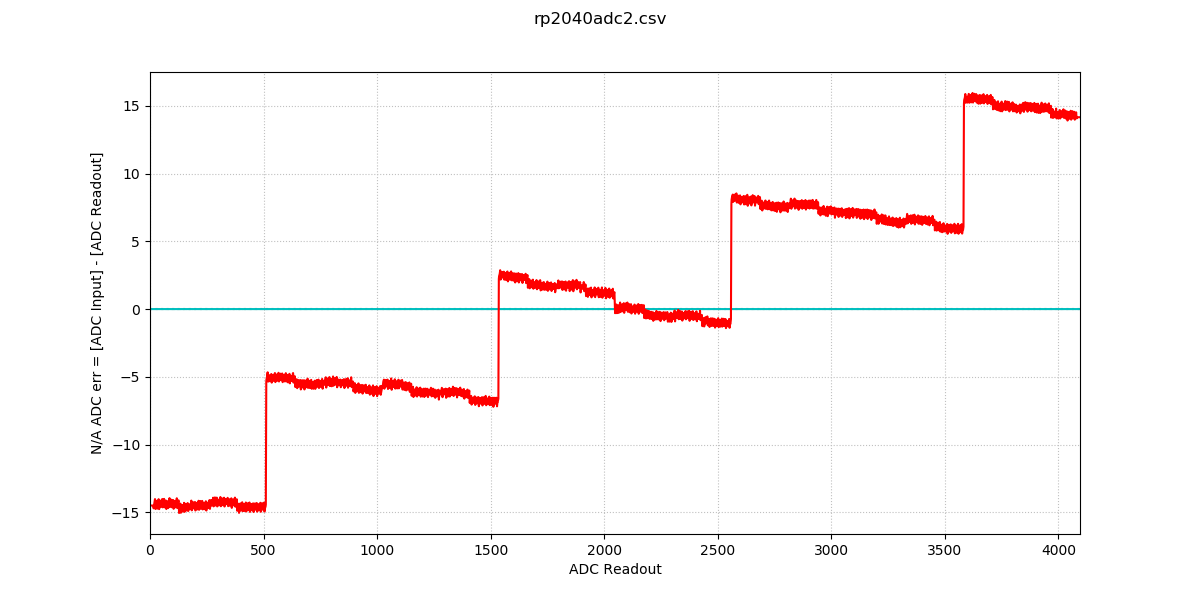
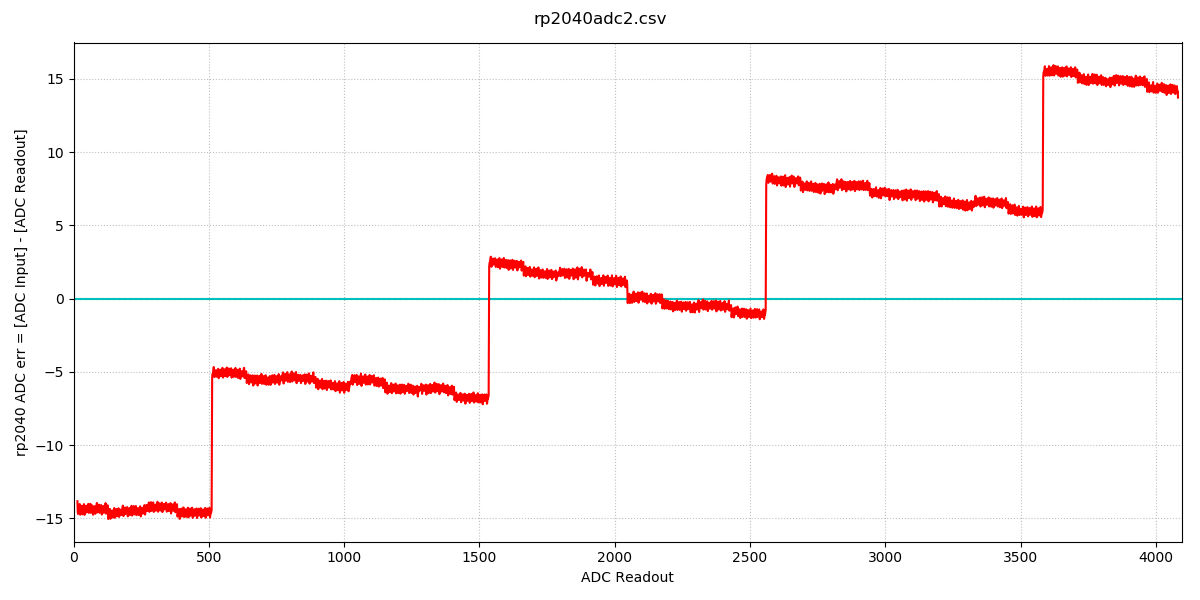
graph and GP-code revised

diff --git a/rp2350adc_corr.py b/rp2350adc_corr.py
@@ -10,49 +10,45 @@ def rp2350adc_correction(d):
     '''
     if d >= 4079:
         y = 4095
-    elif d >= 4070:
+    elif d >= 3905:
         y = d + 16
-    elif d >= 3840:
+    elif d >= 3839:
         y = d + 15
-    elif d >= 3632:
+    elif d >= 3489:
         y = d + 14
-    elif d >= 3328:
+    elif d >= 3327:
         y = d + 13
-    elif d >= 3244:
+    elif d >= 3105:
         y = d + 12
-    elif d >= 3200:
+    elif d >= 2816:
         y = d + 11
-    elif d >= 3152:
-        y = d + 12
-    elif d >= 2848:
-        y = d + 11
-    elif d >= 2784:
+    elif d >= 2783:
         y = d + 10
-    elif d >= 2560:
+    elif d >= 2559:
         y = d + 9
-    elif d >= 2306:
+    elif d >= 2304:
         y = d + 10
     elif d >= 2144:
         y = d + 9
-    elif d >= 2048:
+    elif d >= 2047:
         y = d + 8
-    elif d >= 1839:
+    elif d >= 1824:
         y = d + 9
-    elif d >= 1776:
+    elif d >= 1792:
         y = d + 8
-    elif d >= 1536:
+    elif d >= 1535:
         y = d + 7
     elif d >= 1280:
         y = d + 8
-    elif d >= 1092:
+    elif d >= 1089:
         y = d + 7
-    elif d >= 864:
+    elif d >= 833:
         y = d + 6
-    elif d >= 768:
+    elif d >= 767:
         y = d + 5
-    elif d >= 593:
+    elif d >= 576:
         y = d + 4
-    elif d >= 335:
+    elif d >= 319:
         y = d + 3
     elif d >= 255:
         y = d + 2

diff --git a/rp2040adc_corr.py b/rp2040adc_corr.py
@@ -8,24 +8,22 @@ def rp2040adc_correction(d):
       d     : 12 bit ADC readout (0~4095)
       return: corrected ADC value
     '''
-    if d >= 4082:
+    if d >= 4081:
         y = 4095
-    elif d >= 4022:
-        y = d + 13
     elif d >= 3711:
         y = d + 14
     elif d >= 3584:
         y = d + 15
     elif d == 3583:
         y = 3583 + 10
-    elif d >= 3454:
+    elif d >= 3455:
         y = d + 5
     elif d >= 2943:
         y = d + 6
     elif d >= 2560:
         y = d + 7
     elif d == 2559:
-        y = 2559 + 2
+        y = 2559 + 3
     elif d >= 2431:
         y = d - 2
     elif d >= 2048:

diff --git a/README.md b/README.md
@@ -40,24 +40,22 @@ def rp2040adc_correction(d):
       d     : 12 bit ADC readout (0~4095)
       return: corrected ADC value
     '''
-    if d >= 4082:
+    if d >= 4081:
         y = 4095
-    elif d >= 4022:
-        y = d + 13
     elif d >= 3711:
         y = d + 14
     elif d >= 3584:
         y = d + 15
     elif d == 3583:
         y = 3583 + 10
-    elif d >= 3454:
+    elif d >= 3455:
         y = d + 5
     elif d >= 2943:
         y = d + 6
     elif d >= 2560:
         y = d + 7
     elif d == 2559:
-        y = 2559 + 2
+        y = 2559 + 3
     elif d >= 2431:
         y = d - 2
     elif d >= 2048:
@@ -97,49 +95,45 @@ def rp2350adc_correction(d):
     '''
     if d >= 4079:
         y = 4095
-    elif d >= 4070:
+    elif d >= 3905:
         y = d + 16
-    elif d >= 3840:
+    elif d >= 3839:
         y = d + 15
-    elif d >= 3632:
+    elif d >= 3489:
         y = d + 14
-    elif d >= 3328:
+    elif d >= 3327:
         y = d + 13
-    elif d >= 3244:
+    elif d >= 3105:
         y = d + 12
-    elif d >= 3200:
+    elif d >= 2816:
         y = d + 11
-    elif d >= 3152:
-        y = d + 12
-    elif d >= 2848:
-        y = d + 11
-    elif d >= 2784:
+    elif d >= 2783:
         y = d + 10
-    elif d >= 2560:
+    elif d >= 2559:
         y = d + 9
-    elif d >= 2306:
+    elif d >= 2304:
         y = d + 10
     elif d >= 2144:
         y = d + 9
-    elif d >= 2048:
+    elif d >= 2047:
         y = d + 8
-    elif d >= 1839:
+    elif d >= 1824:
         y = d + 9
-    elif d >= 1776:
+    elif d >= 1792:
         y = d + 8
-    elif d >= 1536:
+    elif d >= 1535:
         y = d + 7
     elif d >= 1280:
         y = d + 8
-    elif d >= 1092:
+    elif d >= 1089:
         y = d + 7
-    elif d >= 864:
+    elif d >= 833:
         y = d + 6
-    elif d >= 768:
+    elif d >= 767:
         y = d + 5
-    elif d >= 593:
+    elif d >= 576:
         y = d + 4
-    elif d >= 335:
+    elif d >= 319:
         y = d + 3
     elif d >= 255:
         y = d + 2
@@ -154,11 +148,11 @@ def rp2350adc_correction(d):
 ## Correction result by the general-purpose code
 Y-axis is ADC error and X-axis is ADC input (***not ADC readout***).
 ### RP2040 ADC correction result by the general-purpose code
-[<img src="./images/Figure_1.png" width="300">](./images/Figure_1.png)
-[<img src="./images/Figure_2.png" width="300">](./images/Figure_2.png)
-[<img src="./images/Figure_3.png" width="300">](./images/Figure_3.png)
-[<img src="./images/Figure_4.png" width="300">](./images/Figure_4.png)
-[<img src="./images/Figure_5.png" width="300">](./images/Figure_5.png)  
+[<img src="./images/rp2040_gc1.png" width="300">](./images/rp2040_gc1.png)
+[<img src="./images/rp2040_gc2.png" width="300">](./images/rp2040_gc2.png)
+[<img src="./images/rp2040_gc3.png" width="300">](./images/rp2040_gc3.png)
+[<img src="./images/rp2040_gc4.png" width="300">](./images/rp2040_gc4.png)
+[<img src="./images/rp2040_gc5.png" width="300">](./images/rp2040_gc5.png)  
 The red line shows the error with correction, and the cyan line shows the error without correction.
 
 ### RP2350 ADC correction result by the general-purpose code
@@ -184,11 +178,11 @@ Where `rp2040adc_err[]` is the array created by [*calc_err.py*](./actual_adc_dat
 ## Calibration result by individual code
 Y-axis is ADC error and X-axis is ADC input (***not ADC readout***).
 ### RP2040 ADC calibration result by individual code
-[<img src="./images/Figure_6.png" width="300">](./images/Figure_6.png)
-[<img src="./images/Figure_7.png" width="300">](./images/Figure_7.png)
-[<img src="./images/Figure_8.png" width="300">](./images/Figure_8.png)
-[<img src="./images/Figure_9.png" width="300">](./images/Figure_9.png)
-[<img src="./images/Figure_a.png" width="300">](./images/Figure_a.png)  
+[<img src="./images/rp2040_ic1.png" width="300">](./images/rp2040_ic1.png)
+[<img src="./images/rp2040_ic2.png" width="300">](./images/rp2040_ic2.png)
+[<img src="./images/rp2040_ic3.png" width="300">](./images/rp2040_ic3.png)
+[<img src="./images/rp2040_ic4.png" width="300">](./images/rp2040_ic4.png)
+[<img src="./images/rp2040_ic5.png" width="300">](./images/rp2040_ic5.png)  
 The red line shows the error with correction, and the cyan line shows the error without correction.
 
 ### RP2350 ADC calibration result by individual code
